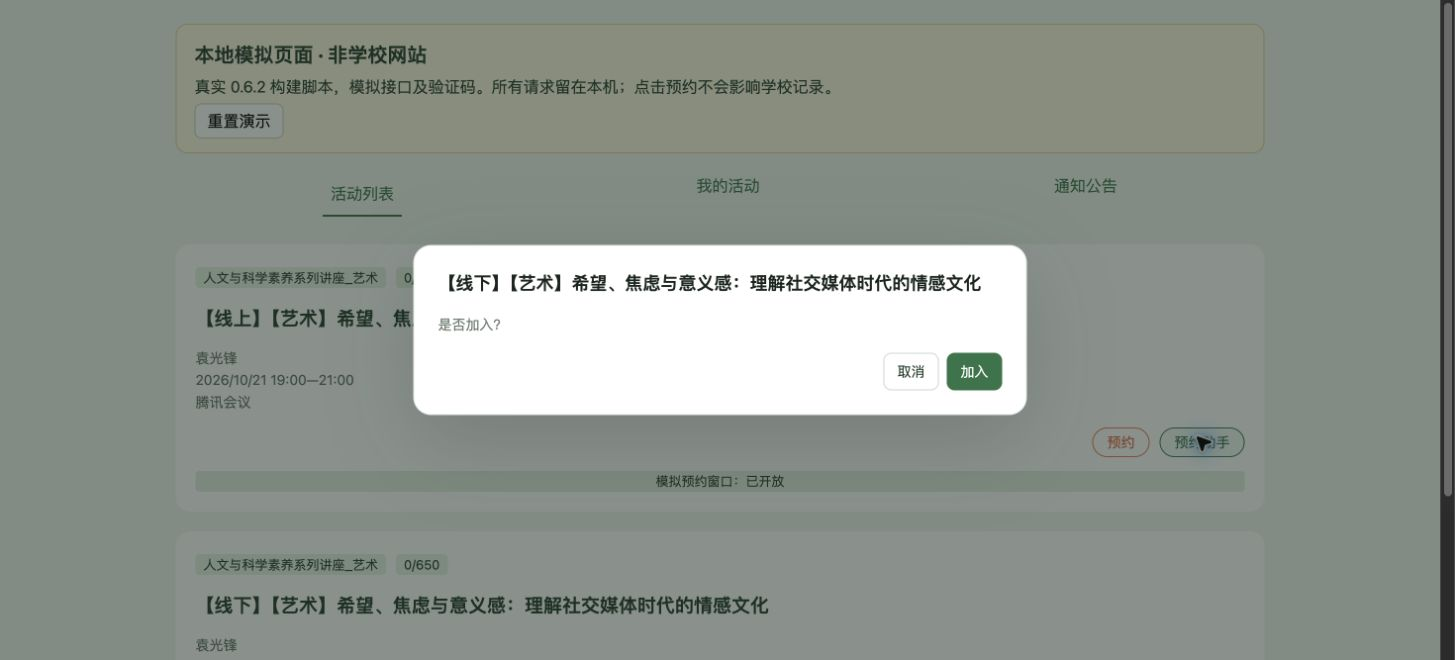
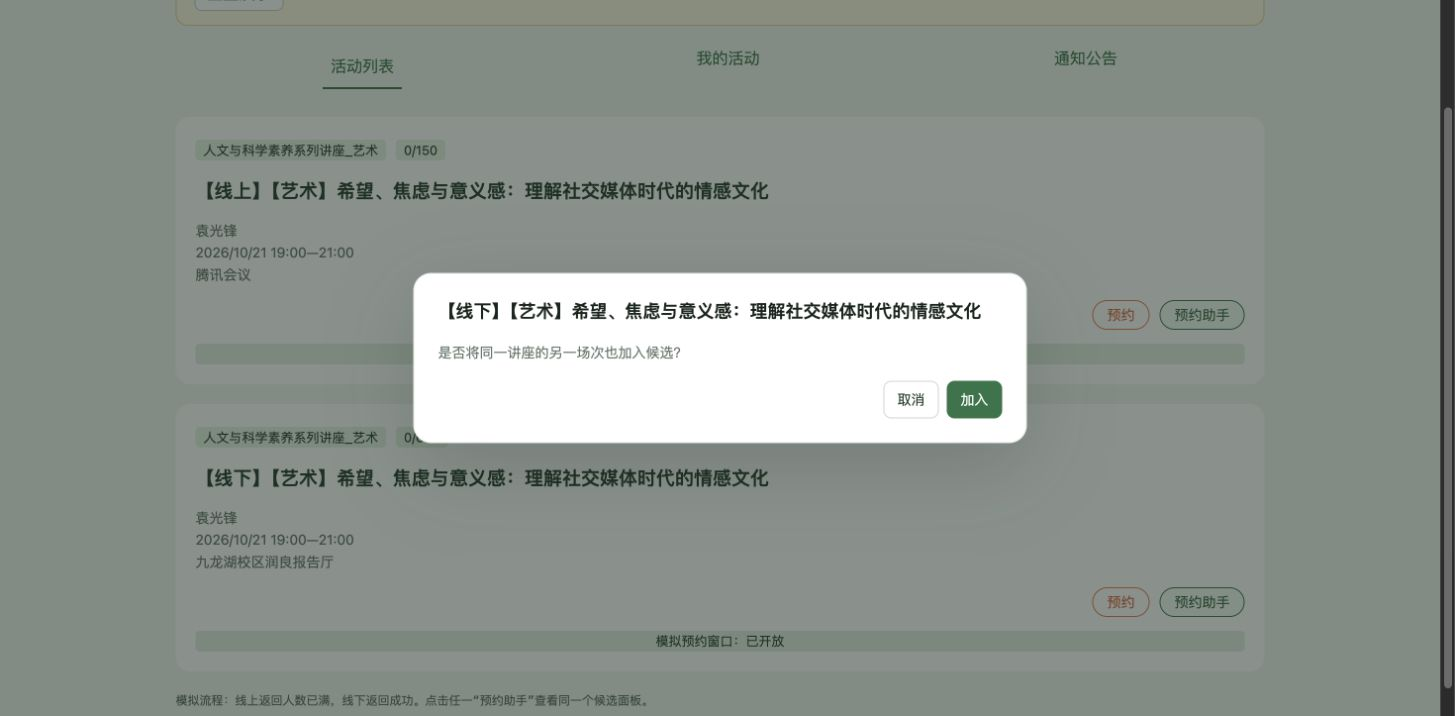
fix: show candidate outcomes and clear resolved failure controls

diff --git a/dist/seu-lecture-helper.user.js b/dist/seu-lecture-helper.user.js
@@ -1,7 +1,7 @@
 // ==UserScript==
 // @name         SEU 研究生讲座预约助手
 // @namespace    seu-lecture-helper
-// @version      0.6.2
+// @version      0.6.3
 // @description  提前准备验证码、人工修正、线上线下串行候选、会话恢复与结果核验
 // @match        https://ehall.seu.edu.cn/gsapp/sys/yddjzxxtjappseu/*
 // @noframes
@@ -172,7 +172,7 @@ SOFTWARE.
   };
 
   // package.json
-  var version = "0.6.2";
+  var version = "0.6.3";
 
   // src/diagnostics.ts
   var VERSION = version;
@@ -383,7 +383,7 @@ SOFTWARE.
         activity2 = candidates[index];
         if (!activity2) throw new ApiError("\u6062\u590D\u7684\u5019\u9009\u573A\u6B21\u65E0\u6548", "format");
         this.targetId = activity2.id;
-        this.state = { ...this.state, activity: activity2, offset, candidates, candidateIndex: index };
+        this.state = { ...this.state, activity: activity2, offset, candidates, candidateIndex: index, fullIds: recovery?.ids?.slice(0, index) ?? [] };
         const bookedIndex = candidates.findIndex((a) => a.reserved);
         if (bookedIndex >= 0) {
           this.state = { ...this.state, activity: candidates[bookedIndex], candidateIndex: bookedIndex };
@@ -603,7 +603,7 @@ SOFTWARE.
         else if (reason === "captcha-rejected" || reason === "not-open") action = "\u5F53\u524D\u573A\u6B21\u6362\u56FE\u91CD\u8BD5";
         else if (error instanceof ApiError && error.kind === "session") action = "\u7B49\u5F85\u767B\u5F55\u6062\u590D";
         else if (error instanceof ApiError && (error.kind === "rate" || error.kind === "business" && reason !== "already-booked")) action = "\u505C\u6B62";
-        this.set(this.state.phase, this.state.message, { lastFailure: { target: mode(this.state.activity, this.state.labels) === "online" ? "\u7EBF\u4E0A" : mode(this.state.activity, this.state.labels) === "offline" ? "\u7EBF\u4E0B" : this.state.activity.title, message: message(error), action } });
+        this.set(this.state.phase, this.state.message, { fullIds: reason === "full" ? [.../* @__PURE__ */ new Set([...this.state.fullIds ?? [], this.state.activity.id])] : this.state.fullIds, lastFailure: { reason, target: mode(this.state.activity, this.state.labels) === "online" ? "\u7EBF\u4E0A" : mode(this.state.activity, this.state.labels) === "offline" ? "\u7EBF\u4E0B" : this.state.activity.title, message: message(error), action } });
         this.diagnostics.record("warn", "\u63D0\u4EA4\u5904\u7406\u51B3\u5B9A", { activityId: this.state.activity.id, candidateMode: mode(this.state.activity, this.state.labels), priority: (this.state.candidateIndex ?? 0) + 1, attempt: this.submissions, ...errorInfo(error), action });
         if (error instanceof ApiError && error.kind === "session") {
           this.requireLogin();
@@ -614,7 +614,11 @@ SOFTWARE.
           return;
         }
         if (error instanceof ApiError && error.kind === "business") {
-          if (reason === "full" && this.advanceCandidate()) return;
+          if (reason === "full") {
+            if (this.advanceCandidate()) return;
+            this.stop((this.state.candidates?.length ?? 0) > 1 ? "\u4E24\u4E2A\u573A\u6B21\u5747\u5DF2\u6EE1\uFF0C\u9884\u7EA6\u5931\u8D25" : "\u4EBA\u6570\u5DF2\u6EE1\uFF0C\u9884\u7EA6\u5931\u8D25");
+            return;
+          }
           if (reason === "already-booked") {
             await this.verify();
             return;
@@ -701,10 +705,10 @@ SOFTWARE.
       this.root.innerHTML = `<style>
 :host{all:initial;font-family:system-ui,"Microsoft YaHei",sans-serif;color:#18251e}
 *{box-sizing:border-box}dialog{width:min(620px,calc(100vw - 32px));max-height:calc(100dvh - 32px);overflow:auto;border:1px solid #dfe8e2;border-radius:18px;padding:24px;background:white;color:inherit;box-shadow:0 24px 80px #10251c30}dialog::backdrop{background:#10251c80}
-#candidates{display:grid;grid-template-columns:210px 1fr;align-items:center;gap:12px;margin-bottom:14px}#labels{grid-column:1/-1;display:grid;gap:8px}#label-fields label{display:flex;align-items:center;justify-content:space-between;gap:12px;font-size:13px;margin:6px 0}#annotate{justify-self:end}#pair-question{font-size:14px;color:#64776a;margin:0}.priority{display:flex;gap:4px;background:#eef3ef;border-radius:10px;padding:4px;margin:0}.priority button{flex:1;border:0;background:transparent}.priority button:disabled{opacity:1;color:#829087}.priority button[aria-pressed=true]{background:white;box-shadow:0 1px 5px #15372015;color:#287547;font-weight:600}ol{padding:0;margin:0;list-style:none;font-size:13px;color:#68786d}li{padding:3px 0;overflow-wrap:anywhere}li.active{color:#24663b;font-weight:600}#failure{background:#fff6e9;border-radius:8px;padding:8px 10px;color:#885722;overflow-wrap:anywhere}h2{font-size:18px;line-height:1.5;margin:0 0 18px;overflow-wrap:anywhere}.overview{display:flex;justify-content:space-between;align-items:center;gap:16px;background:#f0f7f2;border-radius:12px;padding:14px 16px}.clock{font-size:32px;font-weight:650;color:#287547;font-variant-numeric:tabular-nums}.settings{font-size:13px;color:#64776a}select{font:inherit;color:#24663b;border:1px solid #ccd8cf;background:white;border-radius:7px;padding:6px}
+#candidates{display:grid;grid-template-columns:210px 1fr;align-items:center;gap:12px;margin-bottom:14px}#labels{grid-column:1/-1;display:grid;gap:8px}#label-fields label{display:flex;align-items:center;justify-content:space-between;gap:12px;font-size:13px;margin:6px 0}#annotate{justify-self:end}#pair-question{font-size:14px;color:#64776a;margin:0}.priority{display:flex;gap:4px;background:#eef3ef;border-radius:10px;padding:4px;margin:0}.priority button{flex:1;border:0;background:transparent}.priority button:disabled{opacity:1;color:#829087}.priority button[aria-pressed=true]{background:white;box-shadow:0 1px 5px #15372015;color:#287547;font-weight:600}ol{padding:0;margin:0;list-style:none;font-size:13px;color:#68786d}li{padding:3px 0;overflow-wrap:anywhere}li.active,li.success{color:#24663b;font-weight:600}li.full{color:#a25f50}li.full .candidate-name{text-decoration:line-through;opacity:.8}li.failed{color:#a25f50}.candidate-status{margin-left:8px;font-weight:600}#failure{background:#fff6e9;border-radius:8px;padding:8px 10px;color:#885722;overflow-wrap:anywhere}h2{font-size:18px;line-height:1.5;margin:0 0 18px;overflow-wrap:anywhere}.overview{display:flex;justify-content:space-between;align-items:center;gap:16px;background:#f0f7f2;border-radius:12px;padding:14px 16px}.clock{font-size:32px;font-weight:650;color:#287547;font-variant-numeric:tabular-nums}.settings{font-size:13px;color:#64776a}select{font:inherit;color:#24663b;border:1px solid #ccd8cf;background:white;border-radius:7px;padding:6px}
 .challenge{display:grid;grid-template-columns:1fr 1fr;align-items:center;gap:18px;margin-top:18px;padding:14px;background:#f7f9f7;border-radius:12px}img{width:160px;max-width:100%;height:64px;object-fit:contain;justify-self:center}input{width:100%;font:28px system-ui;letter-spacing:6px;border:1px solid #b2c2b7;border-radius:8px;padding:8px;color:#18251e;background:white}input:focus{outline:2px solid #287547;outline-offset:2px}
 p{margin:10px 0 0;font-size:13px;line-height:1.5}#preparation{color:#9c5530}.actions{display:flex;justify-content:flex-end;gap:8px;align-items:center;margin-top:18px;flex-wrap:wrap}button{font:14px system-ui;min-height:38px;padding:7px 13px;border:1px solid #ccd8cf;border-radius:8px;background:white;color:#203e2d;cursor:pointer}button.primary{background:#287547;border-color:#287547;color:white}button:disabled{opacity:.5;cursor:default}[hidden]{display:none!important}@media(max-width:420px){#candidates{grid-template-columns:1fr;gap:5px}dialog{padding:18px}.clock{font-size:25px}.overview{gap:8px;padding:12px}.challenge{gap:12px;padding:10px}input{font-size:24px;letter-spacing:4px}}
-</style><dialog aria-labelledby="title"><h2 id="title">\u8BB2\u5EA7\u9884\u7EA6</h2><p id="pair-question" hidden>\u662F\u5426\u52A0\u5165\uFF1F</p><section id="candidates" hidden><div class="priority" role="group" aria-label="\u5019\u9009\u987A\u5E8F"><button type="button" id="online-first" aria-pressed="true">\u7EBF\u4E0A\u4F18\u5148</button><button type="button" id="offline-first" aria-pressed="false">\u7EBF\u4E0B\u4F18\u5148</button></div><ol aria-label="\u5019\u9009\u573A\u6B21"></ol><section id="labels" hidden><div id="label-fields"></div><button type="button" id="annotate">\u5E94\u7528\u6807\u6CE8</button></section></section><div class="overview"><span class="clock" aria-label="\u8DDD\u79BB\u9884\u7EA6\u5F00\u653E">--:--:--</span><label class="settings">\u63D0\u524D <select id="lead" aria-label="\u63D0\u524D\u53D6\u56FE\u65F6\u95F4"><option value="10">10 \u79D2</option><option value="20">20 \u79D2</option><option value="30" selected>30 \u79D2</option><option value="60">60 \u79D2</option></select> \u53D6\u56FE</label></div><form><div class="challenge" hidden><img alt="\u9884\u7EA6\u9A8C\u8BC1\u7801"><input aria-label="\u9A8C\u8BC1\u7801" placeholder="\u9A8C\u8BC1\u7801" maxlength="4" inputmode="numeric" autocomplete="off" spellcheck="false"></div><p id="status" role="status" aria-live="polite"></p><p id="failure" hidden></p><p id="preparation" hidden></p><div class="actions"><button type="button" id="single" hidden>\u53D6\u6D88</button><button type="button" id="join" class="primary" hidden>\u52A0\u5165</button><button type="button" id="start" class="primary">\u5F00\u59CB\u7B49\u5F85</button><button type="submit" class="primary" hidden>\u63D0\u4EA4\u9884\u7EA6</button><button type="button" id="refresh" hidden>\u6362\u4E00\u5F20</button><button type="button" id="login" hidden>\u91CD\u65B0\u767B\u5F55</button><button type="button" id="resume" hidden>\u767B\u5F55\u540E\u6062\u590D</button><button type="button" id="verify" hidden>\u91CD\u65B0\u6838\u9A8C</button><button type="button" id="reload" hidden>\u5237\u65B0\u5B66\u6821\u9875\u9762</button><button type="button" id="hide">\u6536\u8D77</button><button type="button" id="close">\u5173\u95ED</button></div></form></dialog>`;
+</style><dialog aria-labelledby="title"><h2 id="title">\u8BB2\u5EA7\u9884\u7EA6</h2><p id="pair-question" hidden>\u662F\u5426\u5C06\u540C\u4E00\u8BB2\u5EA7\u7684\u53E6\u4E00\u573A\u6B21\u4E5F\u52A0\u5165\u5019\u9009\uFF1F</p><section id="candidates" hidden><div class="priority" role="group" aria-label="\u5019\u9009\u987A\u5E8F"><button type="button" id="online-first" aria-pressed="true">\u7EBF\u4E0A\u4F18\u5148</button><button type="button" id="offline-first" aria-pressed="false">\u7EBF\u4E0B\u4F18\u5148</button></div><ol aria-label="\u5019\u9009\u573A\u6B21"></ol><section id="labels" hidden><div id="label-fields"></div><button type="button" id="annotate">\u5E94\u7528\u6807\u6CE8</button></section></section><div class="overview"><span class="clock" aria-label="\u8DDD\u79BB\u9884\u7EA6\u5F00\u653E">--:--:--</span><label class="settings">\u63D0\u524D <select id="lead" aria-label="\u63D0\u524D\u53D6\u56FE\u65F6\u95F4"><option value="10">10 \u79D2</option><option value="20">20 \u79D2</option><option value="30" selected>30 \u79D2</option><option value="60">60 \u79D2</option></select> \u53D6\u56FE</label></div><form><div class="challenge" hidden><img alt="\u9884\u7EA6\u9A8C\u8BC1\u7801"><input aria-label="\u9A8C\u8BC1\u7801" placeholder="\u9A8C\u8BC1\u7801" maxlength="4" inputmode="numeric" autocomplete="off" spellcheck="false"></div><p id="status" role="status" aria-live="polite"></p><p id="failure" hidden></p><p id="preparation" hidden></p><div class="actions"><button type="button" id="single" hidden>\u53D6\u6D88</button><button type="button" id="join" class="primary" hidden>\u52A0\u5165</button><button type="button" id="start" class="primary">\u5F00\u59CB\u7B49\u5F85</button><button type="submit" class="primary" hidden>\u63D0\u4EA4\u9884\u7EA6</button><button type="button" id="refresh" hidden>\u6362\u4E00\u5F20</button><button type="button" id="login" hidden>\u91CD\u65B0\u767B\u5F55</button><button type="button" id="resume" hidden>\u767B\u5F55\u540E\u6062\u590D</button><button type="button" id="verify" hidden>\u91CD\u65B0\u6838\u9A8C</button><button type="button" id="reload" hidden>\u5237\u65B0\u5B66\u6821\u9875\u9762</button><button type="button" id="hide">\u6536\u8D77</button><button type="button" id="close">\u5173\u95ED</button></div></form></dialog>`;
       this.panel = this.get("dialog");
       this.get("#online-first").addEventListener("click", () => actions.prefer("online"));
       this.get("#offline-first").addEventListener("click", () => actions.prefer("offline"));
@@ -774,21 +778,27 @@ p{margin:10px 0 0;font-size:13px;line-height:1.5}#preparation{color:#9c5530}.act
         }));
       }
       for (const select of this.root.querySelectorAll("#label-fields select")) select.disabled = state.phase !== "ready";
-      const signature = JSON.stringify([candidates, state.candidateIndex, state.labels]);
+      const signature = JSON.stringify([candidates, state.candidateIndex, state.labels, state.phase, state.fullIds]);
       if (signature !== this.candidateSignature) {
         this.candidateSignature = signature;
-        const list = this.get("ol");
-        list.replaceChildren(...candidates.map((item, i) => {
-          const row = document.createElement("li");
-          row.classList.toggle("active", i === (state.candidateIndex ?? 0));
-          const m = mode(item, state.labels);
-          row.textContent = `${i + 1}. ${m === "online" ? "\u7EBF\u4E0A" : m === "offline" ? "\u7EBF\u4E0B" : "\u672A\u6807\u6CE8"} \xB7 ${item.place || item.title}${i === (state.candidateIndex ?? 0) ? " \xB7 \u5F53\u524D" : ""}`;
+        this.get("ol").replaceChildren(...candidates.map((item, i) => {
+          const row = document.createElement("li"), current = i === (state.candidateIndex ?? 0), full = state.fullIds?.includes(item.id), success = current && state.phase === "success";
+          row.classList.toggle("full", Boolean(full));
+          row.classList.toggle("success", success);
+          row.classList.toggle("failed", current && state.phase === "failed" && !full);
+          row.classList.toggle("active", current && !full && !["success", "failed"].includes(state.phase));
+          const m = mode(item, state.labels), name = document.createElement("span"), status = document.createElement("span");
+          name.className = "candidate-name";
+          status.className = "candidate-status";
+          name.textContent = `${i + 1}. ${m === "online" ? "\u7EBF\u4E0A" : m === "offline" ? "\u7EBF\u4E0B" : "\u672A\u6807\u6CE8"} \xB7 ${item.place || item.title}`;
+          status.textContent = full ? "\u5DF2\u6EE1" : success ? "\u9884\u7EA6\u6210\u529F" : !current ? "\u672A\u5C1D\u8BD5" : state.phase === "failed" ? "\u5931\u8D25" : state.phase === "unknown" ? "\u5F85\u6838\u9A8C" : state.phase === "login-required" ? "\u9700\u767B\u5F55" : state.phase === "verifying" ? "\u6838\u9A8C\u4E2D" : state.phase === "submitting" ? "\u63D0\u4EA4\u4E2D" : state.phase === "waiting" ? "\u7B49\u5F85\u4E2D" : state.armed ? "\u9884\u7EA6\u4E2D" : "\u5F85\u5F00\u59CB";
+          row.append(name, status);
           return row;
         }));
       }
       const failure = this.get("#failure");
-      failure.hidden = !state.lastFailure;
-      failure.textContent = state.lastFailure ? `${state.lastFailure.target}\uFF1A${state.lastFailure.message} \u2192 ${state.lastFailure.action}` : "";
+      failure.hidden = !state.lastFailure || state.phase === "success" || state.lastFailure.reason === "full";
+      failure.textContent = !failure.hidden && state.lastFailure ? `${state.lastFailure.target}\uFF1A${state.lastFailure.message} \u2192 ${state.lastFailure.action}` : "";
       this.get("#status").textContent = state.message;
       this.get("#status").hidden = !state.message;
       this.get(".overview").hidden = !["ready", "waiting", "captcha-loading", "recognizing", "input"].includes(state.phase);
@@ -813,9 +823,9 @@ p{margin:10px 0 0;font-size:13px;line-height:1.5}#preparation{color:#9c5530}.act
       this.get("#start").hidden = state.phase !== "ready";
       this.get("#start").disabled = !allowed.start;
       this.get("#start").textContent = (state.activity?.startsAt ?? 0) > Date.now() + (state.offset ?? 0) ? "\u5F00\u59CB\u7B49\u5F85" : "\u7ACB\u5373\u9884\u7EA6";
-      this.get("[type=submit]").hidden = !state.image || (state.remaining ?? 0) > 0;
+      this.get("[type=submit]").hidden = !state.image || (state.remaining ?? 0) > 0 || !["waiting", "input", "recognizing"].includes(state.phase);
       this.get("[type=submit]").disabled = !allowed.submit;
-      this.get("#refresh").hidden = !state.image;
+      this.get("#refresh").hidden = !state.image || !["waiting", "input", "recognizing"].includes(state.phase);
       this.get("#refresh").disabled = !allowed.refresh;
       this.get("#login").hidden = state.phase !== "login-required";
       this.get("#resume").hidden = state.phase !== "login-required";
@@ -824,7 +834,7 @@ p{margin:10px 0 0;font-size:13px;line-height:1.5}#preparation{color:#9c5530}.act
       this.get("#hide").hidden = !state.armed || ["submitting", "verifying"].includes(state.phase);
       this.get("#close").hidden = choosing;
       this.get("#close").disabled = !allowed.close;
-      this.get("#preparation").hidden = choosing || state.ocrStatus !== "failed";
+      this.get("#preparation").hidden = !["ready", "waiting", "input", "recognizing"].includes(state.phase) || state.ocrStatus !== "failed";
       this.get("#preparation").textContent = state.ocrMessage ?? "";
       if (["success", "failed", "unknown", "login-required"].includes(state.phase)) this.show();
     }

diff --git a/src/dialog.ts b/src/dialog.ts
@@ -14,10 +14,10 @@ export class Dialog {
     this.root.innerHTML=`<style>
 :host{all:initial;font-family:system-ui,"Microsoft YaHei",sans-serif;color:#18251e}
 *{box-sizing:border-box}dialog{width:min(620px,calc(100vw - 32px));max-height:calc(100dvh - 32px);overflow:auto;border:1px solid #dfe8e2;border-radius:18px;padding:24px;background:white;color:inherit;box-shadow:0 24px 80px #10251c30}dialog::backdrop{background:#10251c80}
-#candidates{display:grid;grid-template-columns:210px 1fr;align-items:center;gap:12px;margin-bottom:14px}#labels{grid-column:1/-1;display:grid;gap:8px}#label-fields label{display:flex;align-items:center;justify-content:space-between;gap:12px;font-size:13px;margin:6px 0}#annotate{justify-self:end}#pair-question{font-size:14px;color:#64776a;margin:0}.priority{display:flex;gap:4px;background:#eef3ef;border-radius:10px;padding:4px;margin:0}.priority button{flex:1;border:0;background:transparent}.priority button:disabled{opacity:1;color:#829087}.priority button[aria-pressed=true]{background:white;box-shadow:0 1px 5px #15372015;color:#287547;font-weight:600}ol{padding:0;margin:0;list-style:none;font-size:13px;color:#68786d}li{padding:3px 0;overflow-wrap:anywhere}li.active{color:#24663b;font-weight:600}#failure{background:#fff6e9;border-radius:8px;padding:8px 10px;color:#885722;overflow-wrap:anywhere}h2{font-size:18px;line-height:1.5;margin:0 0 18px;overflow-wrap:anywhere}.overview{display:flex;justify-content:space-between;align-items:center;gap:16px;background:#f0f7f2;border-radius:12px;padding:14px 16px}.clock{font-size:32px;font-weight:650;color:#287547;font-variant-numeric:tabular-nums}.settings{font-size:13px;color:#64776a}select{font:inherit;color:#24663b;border:1px solid #ccd8cf;background:white;border-radius:7px;padding:6px}
+#candidates{display:grid;grid-template-columns:210px 1fr;align-items:center;gap:12px;margin-bottom:14px}#labels{grid-column:1/-1;display:grid;gap:8px}#label-fields label{display:flex;align-items:center;justify-content:space-between;gap:12px;font-size:13px;margin:6px 0}#annotate{justify-self:end}#pair-question{font-size:14px;color:#64776a;margin:0}.priority{display:flex;gap:4px;background:#eef3ef;border-radius:10px;padding:4px;margin:0}.priority button{flex:1;border:0;background:transparent}.priority button:disabled{opacity:1;color:#829087}.priority button[aria-pressed=true]{background:white;box-shadow:0 1px 5px #15372015;color:#287547;font-weight:600}ol{padding:0;margin:0;list-style:none;font-size:13px;color:#68786d}li{padding:3px 0;overflow-wrap:anywhere}li.active,li.success{color:#24663b;font-weight:600}li.full{color:#a25f50}li.full .candidate-name{text-decoration:line-through;opacity:.8}li.failed{color:#a25f50}.candidate-status{margin-left:8px;font-weight:600}#failure{background:#fff6e9;border-radius:8px;padding:8px 10px;color:#885722;overflow-wrap:anywhere}h2{font-size:18px;line-height:1.5;margin:0 0 18px;overflow-wrap:anywhere}.overview{display:flex;justify-content:space-between;align-items:center;gap:16px;background:#f0f7f2;border-radius:12px;padding:14px 16px}.clock{font-size:32px;font-weight:650;color:#287547;font-variant-numeric:tabular-nums}.settings{font-size:13px;color:#64776a}select{font:inherit;color:#24663b;border:1px solid #ccd8cf;background:white;border-radius:7px;padding:6px}
 .challenge{display:grid;grid-template-columns:1fr 1fr;align-items:center;gap:18px;margin-top:18px;padding:14px;background:#f7f9f7;border-radius:12px}img{width:160px;max-width:100%;height:64px;object-fit:contain;justify-self:center}input{width:100%;font:28px system-ui;letter-spacing:6px;border:1px solid #b2c2b7;border-radius:8px;padding:8px;color:#18251e;background:white}input:focus{outline:2px solid #287547;outline-offset:2px}
 p{margin:10px 0 0;font-size:13px;line-height:1.5}#preparation{color:#9c5530}.actions{display:flex;justify-content:flex-end;gap:8px;align-items:center;margin-top:18px;flex-wrap:wrap}button{font:14px system-ui;min-height:38px;padding:7px 13px;border:1px solid #ccd8cf;border-radius:8px;background:white;color:#203e2d;cursor:pointer}button.primary{background:#287547;border-color:#287547;color:white}button:disabled{opacity:.5;cursor:default}[hidden]{display:none!important}@media(max-width:420px){#candidates{grid-template-columns:1fr;gap:5px}dialog{padding:18px}.clock{font-size:25px}.overview{gap:8px;padding:12px}.challenge{gap:12px;padding:10px}input{font-size:24px;letter-spacing:4px}}
-</style><dialog aria-labelledby="title"><h2 id="title">讲座预约</h2><p id="pair-question" hidden>是否加入？</p><section id="candidates" hidden><div class="priority" role="group" aria-label="候选顺序"><button type="button" id="online-first" aria-pressed="true">线上优先</button><button type="button" id="offline-first" aria-pressed="false">线下优先</button></div><ol aria-label="候选场次"></ol><section id="labels" hidden><div id="label-fields"></div><button type="button" id="annotate">应用标注</button></section></section><div class="overview"><span class="clock" aria-label="距离预约开放">--:--:--</span><label class="settings">提前 <select id="lead" aria-label="提前取图时间"><option value="10">10 秒</option><option value="20">20 秒</option><option value="30" selected>30 秒</option><option value="60">60 秒</option></select> 取图</label></div><form><div class="challenge" hidden><img alt="预约验证码"><input aria-label="验证码" placeholder="验证码" maxlength="4" inputmode="numeric" autocomplete="off" spellcheck="false"></div><p id="status" role="status" aria-live="polite"></p><p id="failure" hidden></p><p id="preparation" hidden></p><div class="actions"><button type="button" id="single" hidden>取消</button><button type="button" id="join" class="primary" hidden>加入</button><button type="button" id="start" class="primary">开始等待</button><button type="submit" class="primary" hidden>提交预约</button><button type="button" id="refresh" hidden>换一张</button><button type="button" id="login" hidden>重新登录</button><button type="button" id="resume" hidden>登录后恢复</button><button type="button" id="verify" hidden>重新核验</button><button type="button" id="reload" hidden>刷新学校页面</button><button type="button" id="hide">收起</button><button type="button" id="close">关闭</button></div></form></dialog>`;
+</style><dialog aria-labelledby="title"><h2 id="title">讲座预约</h2><p id="pair-question" hidden>是否将同一讲座的另一场次也加入候选？</p><section id="candidates" hidden><div class="priority" role="group" aria-label="候选顺序"><button type="button" id="online-first" aria-pressed="true">线上优先</button><button type="button" id="offline-first" aria-pressed="false">线下优先</button></div><ol aria-label="候选场次"></ol><section id="labels" hidden><div id="label-fields"></div><button type="button" id="annotate">应用标注</button></section></section><div class="overview"><span class="clock" aria-label="距离预约开放">--:--:--</span><label class="settings">提前 <select id="lead" aria-label="提前取图时间"><option value="10">10 秒</option><option value="20">20 秒</option><option value="30" selected>30 秒</option><option value="60">60 秒</option></select> 取图</label></div><form><div class="challenge" hidden><img alt="预约验证码"><input aria-label="验证码" placeholder="验证码" maxlength="4" inputmode="numeric" autocomplete="off" spellcheck="false"></div><p id="status" role="status" aria-live="polite"></p><p id="failure" hidden></p><p id="preparation" hidden></p><div class="actions"><button type="button" id="single" hidden>取消</button><button type="button" id="join" class="primary" hidden>加入</button><button type="button" id="start" class="primary">开始等待</button><button type="submit" class="primary" hidden>提交预约</button><button type="button" id="refresh" hidden>换一张</button><button type="button" id="login" hidden>重新登录</button><button type="button" id="resume" hidden>登录后恢复</button><button type="button" id="verify" hidden>重新核验</button><button type="button" id="reload" hidden>刷新学校页面</button><button type="button" id="hide">收起</button><button type="button" id="close">关闭</button></div></form></dialog>`;
     this.panel=this.get('dialog');
     this.get('#online-first').addEventListener('click',()=>actions.prefer('online'));this.get('#offline-first').addEventListener('click',()=>actions.prefer('offline'));
     this.get('#single').addEventListener('click',()=>actions.choosePair(false));this.get('#join').addEventListener('click',()=>actions.choosePair(true));
@@ -45,9 +45,19 @@ p{margin:10px 0 0;font-size:13px;line-height:1.5}#preparation{color:#9c5530}.act
     const labelsSignature=JSON.stringify([candidates.map(a=>a.id),state.labels]);
     if(labelsSignature!==this.labelsSignature){this.labelsSignature=labelsSignature;this.get('#label-fields').replaceChildren(...(paired&&!classified(candidates,state.labels)?candidates:[]).map(item=>{const label=document.createElement('label');label.append(item.place||item.title);const select=document.createElement('select');select.dataset.id=item.id;select.setAttribute('aria-label','标注 '+(item.place||item.title));for(const [value,text] of [['','选择场次'],['online','线上'],['offline','线下']])select.add(new Option(text,value));select.value=mode(item,state.labels)??'';label.append(select);return label;}));}
     for(const select of this.root.querySelectorAll<HTMLSelectElement>('#label-fields select'))select.disabled=state.phase!=='ready';
-    const signature=JSON.stringify([candidates,state.candidateIndex,state.labels]);
-    if(signature!==this.candidateSignature){this.candidateSignature=signature;const list=this.get('ol');list.replaceChildren(...candidates.map((item,i)=>{const row=document.createElement('li');row.classList.toggle('active',i===(state.candidateIndex??0));const m=mode(item,state.labels);row.textContent=`${i+1}. ${m==='online'?'线上':m==='offline'?'线下':'未标注'} · ${item.place||item.title}${i===(state.candidateIndex??0)?' · 当前':''}`;return row;}));}
-    const failure=this.get('#failure');failure.hidden=!state.lastFailure;failure.textContent=state.lastFailure?`${state.lastFailure.target}：${state.lastFailure.message} → ${state.lastFailure.action}`:'';
+    const signature=JSON.stringify([candidates,state.candidateIndex,state.labels,state.phase,state.fullIds]);
+    if(signature!==this.candidateSignature){
+      this.candidateSignature=signature;
+      this.get('ol').replaceChildren(...candidates.map((item,i)=>{
+        const row=document.createElement('li'),current=i===(state.candidateIndex??0),full=state.fullIds?.includes(item.id),success=current&&state.phase==='success';
+        row.classList.toggle('full',Boolean(full));row.classList.toggle('success',success);row.classList.toggle('failed',current&&state.phase==='failed'&&!full);row.classList.toggle('active',current&&!full&&!['success','failed'].includes(state.phase));
+        const m=mode(item,state.labels),name=document.createElement('span'),status=document.createElement('span');name.className='candidate-name';status.className='candidate-status';
+        name.textContent=`${i+1}. ${m==='online'?'线上':m==='offline'?'线下':'未标注'} · ${item.place||item.title}`;
+        status.textContent=full?'已满':success?'预约成功':!current?'未尝试':state.phase==='failed'?'失败':state.phase==='unknown'?'待核验':state.phase==='login-required'?'需登录':state.phase==='verifying'?'核验中':state.phase==='submitting'?'提交中':state.phase==='waiting'?'等待中':state.armed?'预约中':'待开始';
+        row.append(name,status);return row;
+      }));
+    }
+    const failure=this.get('#failure');failure.hidden=!state.lastFailure||state.phase==='success'||state.lastFailure.reason==='full';failure.textContent=!failure.hidden&&state.lastFailure?`${state.lastFailure.target}：${state.lastFailure.message} → ${state.lastFailure.action}`:'';
     this.get('#status').textContent=state.message;this.get('#status').hidden=!state.message;
     this.get('.overview').hidden=!['ready','waiting','captcha-loading','recognizing','input'].includes(state.phase);
     this.get('.clock').textContent=duration(state.remaining??Math.max(0,(state.activity?.startsAt??Date.now())-Date.now()-(state.offset??0)));
@@ -61,14 +71,14 @@ p{margin:10px 0 0;font-size:13px;line-height:1.5}#preparation{color:#9c5530}.act
     this.host.dataset.ocr=state.ocrStatus;
     this.get('#start').hidden=state.phase!=='ready';this.get<HTMLButtonElement>('#start').disabled=!allowed.start;
     this.get('#start').textContent=(state.activity?.startsAt??0)>Date.now()+(state.offset??0)?'开始等待':'立即预约';
-    this.get('[type=submit]').hidden=!state.image || (state.remaining??0)>0;
+    this.get('[type=submit]').hidden=!state.image || (state.remaining??0)>0 || !['waiting','input','recognizing'].includes(state.phase);
     this.get<HTMLButtonElement>('[type=submit]').disabled=!allowed.submit;
-    this.get('#refresh').hidden=!state.image;this.get<HTMLButtonElement>('#refresh').disabled=!allowed.refresh;
+    this.get('#refresh').hidden=!state.image||!['waiting','input','recognizing'].includes(state.phase);this.get<HTMLButtonElement>('#refresh').disabled=!allowed.refresh;
     this.get('#login').hidden=state.phase!=='login-required';this.get('#resume').hidden=state.phase!=='login-required';
     this.get('#verify').hidden=state.phase!=='unknown';this.get('#reload').hidden=state.phase!=='success';
     this.get('#hide').hidden=!state.armed || ['submitting','verifying'].includes(state.phase);
     this.get('#close').hidden=choosing;this.get<HTMLButtonElement>('#close').disabled=!allowed.close;
-    this.get('#preparation').hidden=choosing||state.ocrStatus!=='failed';this.get('#preparation').textContent=state.ocrMessage??'';
+    this.get('#preparation').hidden=!['ready','waiting','input','recognizing'].includes(state.phase)||state.ocrStatus!=='failed';this.get('#preparation').textContent=state.ocrMessage??'';
     if(['success','failed','unknown','login-required'].includes(state.phase))this.show();
   }
 }

diff --git a/tests/e2e/ocr.spec.ts b/tests/e2e/ocr.spec.ts
@@ -9,7 +9,7 @@ const stamp=(ms:number)=>new Date(ms+8*3600000).toISOString().slice(0,19).replac
 const fixtureStyle=`<style>
 body{font:16px system-ui;background:#edf5ef;margin:0;padding:20px}.activity-container{background:white;padding:20px;margin:0 0 18px;border-radius:14px}.activity-name{font-weight:600;margin:12px 0}.activity-text{font-size:14px;color:#67766c}.ydd-inline-flex{display:flex;justify-content:flex-end;align-items:center;margin:14px 0}.ydd-button-small{font:14px/18px system-ui;padding:4px 12px;border:1px solid #999;border-radius:20px;background:white}.button-warning{color:#e85e32;border-color:#e85e32}.activity-time{background:#e4f2e6;font-size:13px;padding:5px;text-align:center}
 </style>`;
-async function setup(page:Page, options:{pair?:boolean;unlabelled?:boolean;unknownPrimary?:boolean;declinePair?:boolean;expireBackupOnce?:boolean;expireProbeOnce?:boolean;notOpenOnce?:boolean;future?:boolean;blocked?:boolean;rejectCode?:boolean|'three';fullOnRejection?:boolean}={}) {
+async function setup(page:Page, options:{pair?:boolean;unlabelled?:boolean;unknownPrimary?:boolean;declinePair?:boolean;expireBackupOnce?:boolean;allFull?:boolean;expireProbeOnce?:boolean;notOpenOnce?:boolean;future?:boolean;blocked?:boolean;rejectCode?:boolean|'three';fullOnRejection?:boolean}={}) {
   const initialTime=Date.now();
   let booked=false,bookedId=raw.datas.hdlbList[0].WID,writes=0,captchaCalls=0,assetCalls=0;
   const targets:string[]=[];const events:string[]=[];
@@ -41,7 +41,7 @@ async function setup(page:Page, options:{pair?:boolean;unlabelled?:boolean;unkno
     else if(name==='addReservation.do') {
       writes++;const target=new URLSearchParams(request.postData()!).get('wid')!;targets.push(target);events.push('submit:'+target);codes.push(new URLSearchParams(request.postData()!).get('vcode')!);
       if(options.pair&&target!== 'offline-fixture'&&options.unknownPrimary)return route.abort();
-      if(options.pair&&target!=='offline-fixture')result={code:-1,datas:null,msg:'当前活动预约人数已满，请重新选择'};
+      if(options.pair&&(target!=='offline-fixture'||options.allFull))result={code:-1,datas:null,msg:'当前活动预约人数已满，请重新选择'};
       else if(options.notOpenOnce&&writes===1) result={code:-1,datas:null,msg:'尚未开放预约'};
       else if(full)result={code:-1,datas:null,msg:'当前活动预约人数已满，请重新选择'};
       else if(options.rejectCode&&(writes===1||options.rejectCode==='three'&&writes<=3)){if(options.fullOnRejection&&writes>=2)full=true;result={code:-1,datas:null,msg:'验证码错误，请重试'};}
@@ -143,7 +143,7 @@ test('online-full fallback is serial, uses a fresh captcha, and retains the reas
   await expect(page.getByRole('button',{name:'线上优先',exact:true})).toHaveAttribute('aria-pressed','true');
   await page.locator('#start').click();await expect(page.getByRole('status')).toContainText('已核验',{timeout:20000});
   expect(state.targets).toEqual([raw.datas.hdlbList[0].WID,'offline-fixture']);expect(state.events).toEqual(['captcha','submit:'+raw.datas.hdlbList[0].WID,'captcha','submit:offline-fixture']);
-  await expect(page.locator('#failure')).toContainText('人数已满');expect(state.failures).toEqual([]);
+  await expect(page.locator('ol li').nth(0)).toContainText('已满');await expect(page.locator('ol li').nth(1)).toContainText('预约成功');await expect(page.locator('#failure')).toBeHidden();await expect(page.getByRole('button',{name:'提交预约',exact:true})).toBeHidden();await expect(page.getByRole('button',{name:'换一张',exact:true})).toBeHidden();expect(state.failures).toEqual([]);
 });
 test('one order control chooses offline first; successful first choice never submits the other',async({page})=>{
   const state=await setup(page,{pair:true});await openHelper(page);await page.getByRole('button',{name:'线下优先',exact:true}).click();
@@ -176,7 +176,7 @@ test('unclassified variants are blocked until the user supplies labels',async({p
 test('reload after backup captcha auth failure resumes the backup, not the exhausted primary',async({page})=>{
   const state=await setup(page,{pair:true,expireBackupOnce:true});await openHelper(page);await page.locator('#start').click();
   await expect(page.getByRole('status')).toContainText('登录已失效',{timeout:20000});expect(state.targets).toEqual([raw.datas.hdlbList[0].WID]);
-  await page.reload();await page.addScriptTag({content:script});await expect(page.getByRole('status')).toContainText('已核验',{timeout:20000});expect(state.targets).toEqual([raw.datas.hdlbList[0].WID,'offline-fixture']);
+  await page.reload();await page.addScriptTag({content:script});await expect(page.getByRole('status')).toContainText('已核验',{timeout:20000});expect(state.targets).toEqual([raw.datas.hdlbList[0].WID,'offline-fixture']);await expect(page.locator('ol li').nth(0)).toContainText('已满');await expect(page.locator('ol li').nth(1)).toContainText('预约成功');
 });
 
 test('declining counterpart confirmation keeps a single target and hides the order setting',async({page})=>{
@@ -191,9 +191,18 @@ test('both variant buttons reopen the same waiting dialog without starting anoth
 test('pair confirmation stays themed and concise without native browser dialogs',async({page},testInfo)=>{
   let dialogs=0;page.on('dialog',dialog=>{dialogs++;void dialog.dismiss();});
   await setup(page,{pair:true});await page.getByRole('button',{name:'预约助手'}).first().click();
-  await expect(page.locator('#pair-question')).toHaveText('是否加入？');await expect(page.locator('#title')).toHaveText('【线下】【艺术】同一讲座');
+  await expect(page.locator('#pair-question')).toHaveText('是否将同一讲座的另一场次也加入候选？');await expect(page.locator('#title')).toHaveText('【线下】【艺术】同一讲座');
   await expect(page.locator('#start')).toBeHidden();await expect(page.locator('#candidates')).toBeHidden();
   const buttons=page.locator('#seu-lecture-helper-dialog').getByRole('button');await expect(buttons).toHaveCount(2);
   await page.screenshot({path:testInfo.outputPath('pair-confirmation.png')});
   await page.getByRole('button',{name:'加入',exact:true}).click();await expect(page.locator('#start')).toBeVisible();expect(dialogs).toBe(0);
+});
+
+test('both variants full ends with a clear failure and no submit or refresh controls',async({page})=>{
+  let dialogs=0;page.on('dialog',dialog=>{dialogs++;void dialog.dismiss();});
+  const state=await setup(page,{pair:true,allFull:true});await openHelper(page);await page.locator('#start').click();
+  await expect(page.getByRole('status')).toContainText('两个场次均已满，预约失败',{timeout:20000});
+  await expect(page.locator('ol li.full')).toHaveCount(2);await expect(page.locator('#failure')).toBeHidden();
+  await expect(page.getByRole('button',{name:'提交预约',exact:true})).toBeHidden();await expect(page.getByRole('button',{name:'换一张',exact:true})).toBeHidden();
+  expect(state.targets).toEqual([raw.datas.hdlbList[0].WID,'offline-fixture']);expect(dialogs).toBe(0);
 });

diff --git a/src/reservation.ts b/src/reservation.ts
@@ -5,8 +5,8 @@ import {Diagnostics, businessReason, errorInfo} from './diagnostics';
 export type Phase = 'choosing' | 'login-required' | 'loading' | 'ready' | 'waiting' | 'captcha-loading' | 'recognizing' | 'input' | 'submitting' | 'verifying' | 'success' | 'failed' | 'unknown' | 'closed';
 export interface Recovery {leadSeconds:number;verify:boolean;ids?:string[];index?:number;preferred?:Mode;labels?:Labels}
 export interface State {
-  requestedId?:string; candidates?:Activity[]; candidateIndex?:number; preferred?:Mode; labels?:Labels;
-  lastFailure?:{target:string;message:string;action:string};
+  fullIds?:string[]; requestedId?:string; candidates?:Activity[]; candidateIndex?:number; preferred?:Mode; labels?:Labels;
+  lastFailure?:{target:string;message:string;action:string;reason?:string};
   phase: Phase; message: string; activity?: Activity; offset?: number; remaining?: number;
   image?: string; code?: string; leadSeconds?: number; armed?: boolean;
   ocrStatus?: 'loading' | 'ready' | 'failed'; ocrMessage?: string; verifyAfterLogin?:boolean;
@@ -84,7 +84,7 @@ export class Reservation {
       else candidates=recovery?[activity]:ordered(findCandidates(activity,data.activities),this.state.preferred!,this.state.labels);
       const index=recovery?.index??0;activity=candidates[index];
       if(!activity)throw new ApiError('恢复的候选场次无效','format');
-      this.targetId=activity.id;this.state={...this.state,activity,offset,candidates,candidateIndex:index};
+      this.targetId=activity.id;this.state={...this.state,activity,offset,candidates,candidateIndex:index,fullIds:recovery?.ids?.slice(0,index)??[]};
       const bookedIndex=candidates.findIndex(a=>a.reserved);
       if(bookedIndex>=0){this.state={...this.state,activity:candidates[bookedIndex],candidateIndex:bookedIndex};this.targetId=candidates[bookedIndex].id;this.finish('success','该讲座已有预约记录，不再预约另一场次');return;}
       if(!this.bookable())return;
@@ -235,12 +235,12 @@ export class Reservation {
       else if(reason==='captcha-rejected'||reason==='not-open')action='当前场次换图重试';
       else if(error instanceof ApiError && error.kind==='session')action='等待登录恢复';
       else if(error instanceof ApiError && (error.kind==='rate'||error.kind==='business' && reason!=='already-booked'))action='停止';
-      this.set(this.state.phase,this.state.message,{lastFailure:{target:mode(this.state.activity!,this.state.labels)==='online'?'线上':mode(this.state.activity!,this.state.labels)==='offline'?'线下':this.state.activity!.title,message:message(error),action}});
+      this.set(this.state.phase,this.state.message,{fullIds:reason==='full'?[...new Set([...(this.state.fullIds??[]),this.state.activity!.id])]:this.state.fullIds,lastFailure:{reason,target:mode(this.state.activity!,this.state.labels)==='online'?'线上':mode(this.state.activity!,this.state.labels)==='offline'?'线下':this.state.activity!.title,message:message(error),action}});
       this.diagnostics.record('warn','提交处理决定',{activityId:this.state.activity!.id,candidateMode:mode(this.state.activity!,this.state.labels),priority:(this.state.candidateIndex??0)+1,attempt:this.submissions,...errorInfo(error),action});
       if(error instanceof ApiError && error.kind==='session'){this.requireLogin();return;}
       if(error instanceof ApiError && error.kind==='rate'){this.stop(message(error));return;}
       if(error instanceof ApiError && error.kind==='business'){
-        if(reason==='full' && this.advanceCandidate())return;
+        if(reason==='full'){if(this.advanceCandidate())return;this.stop((this.state.candidates?.length??0)>1?'两个场次均已满，预约失败':'人数已满，预约失败');return;}
         if(reason==='already-booked'){await this.verify();return;}
         if(reason==='captcha-rejected' || reason==='not-open'){await this.retryCaptcha();return;}
         this.stop(error.message);return;

diff --git a/tests/dom.test.ts b/tests/dom.test.ts
@@ -118,7 +118,15 @@ it('pair confirmation uses only the counterpart title, question and two themed b
   const a={choosePair:vi.fn(),prefer:vi.fn(),annotate:vi.fn(),submit:vi.fn(),edit:vi.fn(),refresh:vi.fn(),verify:vi.fn(),close:vi.fn(),start:vi.fn(),configure:vi.fn(),hide:vi.fn(),reload:vi.fn(),login:vi.fn(),resume:vi.fn()};
   const d=new Dialog(a),online={...await sample(),id:'on',title:'【线上】【艺术】同一讲座'},offline={...online,id:'off',title:'【线下】【艺术】同一讲座'};
   d.render({phase:'choosing',message:'',activity:online,candidates:[online,offline],requestedId:'on'});
-  expect(d.root.querySelector('#title')!.textContent).toBe(offline.title);expect(d.root.querySelector('#pair-question')!.textContent).toBe('是否加入？');
+  expect(d.root.querySelector('#title')!.textContent).toBe(offline.title);expect(d.root.querySelector('#pair-question')!.textContent).toBe('是否将同一讲座的另一场次也加入候选？');
   expect(d.root.querySelector('#candidates')!.hasAttribute('hidden')).toBe(true);expect(d.root.querySelector('#start')!.hasAttribute('hidden')).toBe(true);expect(d.root.querySelector('#close')!.hasAttribute('hidden')).toBe(true);
   d.root.querySelector<HTMLButtonElement>('#join')!.click();expect(a.choosePair).toHaveBeenCalledWith(true);d.destroy();
+});
+it('updates each candidate outcome through verification and success, then removes stale failure and challenge actions',async()=>{
+  const a={choosePair:vi.fn(),prefer:vi.fn(),annotate:vi.fn(),submit:vi.fn(),edit:vi.fn(),refresh:vi.fn(),verify:vi.fn(),close:vi.fn(),start:vi.fn(),configure:vi.fn(),hide:vi.fn(),reload:vi.fn(),login:vi.fn(),resume:vi.fn()};
+  const d=new Dialog(a),online={...await sample(),id:'on',title:'【线上】同一讲座'},offline={...online,id:'off',title:'【线下】同一讲座'};
+  const state={phase:'verifying' as const,message:'正在核验',activity:offline,candidates:[online,offline],candidateIndex:1,fullIds:['on'],image:'image',code:'1234',lastFailure:{target:'线上',reason:'full',message:'人数已满，请重新选择',action:'切换下一候选'}};
+  d.render(state);expect(d.root.querySelectorAll('li')[0].textContent).toContain('已满');expect(d.root.querySelectorAll('li')[1].textContent).toContain('核验中');expect(d.root.querySelector('#failure')!.hasAttribute('hidden')).toBe(true);
+  d.render({...state,phase:'success',message:'预约成功'});expect(d.root.querySelectorAll('li')[1].textContent).toContain('预约成功');expect(d.root.querySelectorAll('li')[1].classList.contains('success')).toBe(true);
+  expect(d.root.querySelector('#failure')!.textContent).toBe('');expect(d.root.querySelector('[type=submit]')!.hasAttribute('hidden')).toBe(true);expect(d.root.querySelector('#refresh')!.hasAttribute('hidden')).toBe(true);d.destroy();
 });

diff --git a/docs/diagnostics.md b/docs/diagnostics.md
@@ -27,4 +27,4 @@
 
 日志不包含密码、Cookie、验证码图片、验证码答案、完整请求或响应。活动 ID 和人数属于诊断信息。阶段耗时包含该阶段的等待与处理，不能直接区分服务器排队与网络延迟；`afterOpenMs` 基于估算的服务器时间偏差，不能视为精确的服务器到达时间。普通请求与 OCR 的计时可以帮助定位瓶颈，但不能单凭日志证明未抢到的唯一原因。
 
-0.6.0 的两个候选共用一个执行任务编号；`attempt` 是该执行器累计提交次数，`priority` 是当前候选位置。每次提交失败都有阶段失败事件及处理决定事件，面板仅显示最近一次原因。候选切换不重开日志任务；登录恢复和刷新会创建新的执行器编号，需结合活动 ID 和时间关联。
+0.6.0 的两个候选共用一个执行任务编号；`attempt` 是该执行器累计提交次数，`priority` 是当前候选位置。每次提交失败都有阶段失败事件及处理决定事件，面板显示当前待处理异常；已自动处理的满员和成功前的旧错误仅保留在 Console。候选切换不重开日志任务；登录恢复和刷新会创建新的执行器编号，需结合活动 ID 和时间关联。

diff --git a/README.md b/README.md
@@ -25,7 +25,7 @@
 
 两个场次**严格串行**：先提交高优先场次，只有服务端明确反馈人数已满才转向另一场次，重新获取验证码、识别并提交。一项成功后核验预约记录并结束，不再尝试另一项；两项都满则停止。验证码错误或未开放在当前场次换图重试；超时或响应不明先核验，不切换候选。开始后候选顺序锁定。
 
-列表人数可能滞后，因此双候选任务以提交响应判断满员；原有单目标的满员拦截保持不变。面板显示最近一次提交失败原因与下一步动作，Console 保留各次提交及切换记录。不并发取图或预约，也不会自动取消已有预约。
+列表人数可能滞后，因此双候选任务以提交响应判断满员；原有单目标的满员拦截保持不变。候选行显示已满、预约中、核验中及预约成功等状态。成功后只显示最终结果；两个场次均满则显示整体失败。原始服务端消息和每次处理动作保留在 Console，不把已自动处理的满员提示显示为待操作事项。不并发取图或预约，也不会自动取消已有预约。
 
 ## 验证码与重试
 

diff --git a/docs/test-results.md b/docs/test-results.md
@@ -1,5 +1,11 @@
 # 当前测试结果
 
+## 0.6.3 — 2026-10-19
+
+类型检查、126 项单元／DOM 测试、20 项离线浏览器测试通过。新增验证候选行随核验／成功阶段更新、满员行标记、成功时隐藏旧反馈与提交／换图控件，以及两个场次都满时只给整体失败结果。原串行请求顺序、满员自动切换、未知结果核验与刷新恢复继续通过。
+
+另在用户 Chrome 的本地模拟页实际执行一次“线上满员→自动线下→成功核验”，点击启动后没有中途确认。截图记录线上删除线与“已满”、线下“预约成功”和仅剩的结果操作；配对确认核对新的一行说明。本轮没有访问真实预约接口。
+
 ## 0.6.2 — 2026-10-19
 
 类型检查、125 项单元／DOM 测试、19 项离线浏览器测试通过。更新取消分支的按钮选择，复核窄屏布局及候选确认截图；另在用户 Chrome 的本地模拟页实际查看“取消／加入”紧邻靠右。没有访问真实预约接口。

diff --git a/CHANGELOG.md b/CHANGELOG.md
@@ -1,5 +1,12 @@
 # 更新日志
 
+## 0.6.3 — 2026-10-19
+
+- 候选列表分别显示已满、预约中、核验中和预约成功；满员场次以删除线标记，自动切换过程无需再次确认。
+- 成功后移除历史失败提示及提交／换图按钮，两个场次都满时明确显示整体预约失败；原始反馈保留在 Console。
+- 加入候选的确认框增加一行说明，明确是在添加同一讲座的另一场次。
+- 修正本地演示刷新后丢失模拟预约记录的问题。
+
 ## 0.6.2 — 2026-10-19
 
 - 弹窗底部操作按钮统一靠右排列，配对确认按钮改为“取消／加入”。
